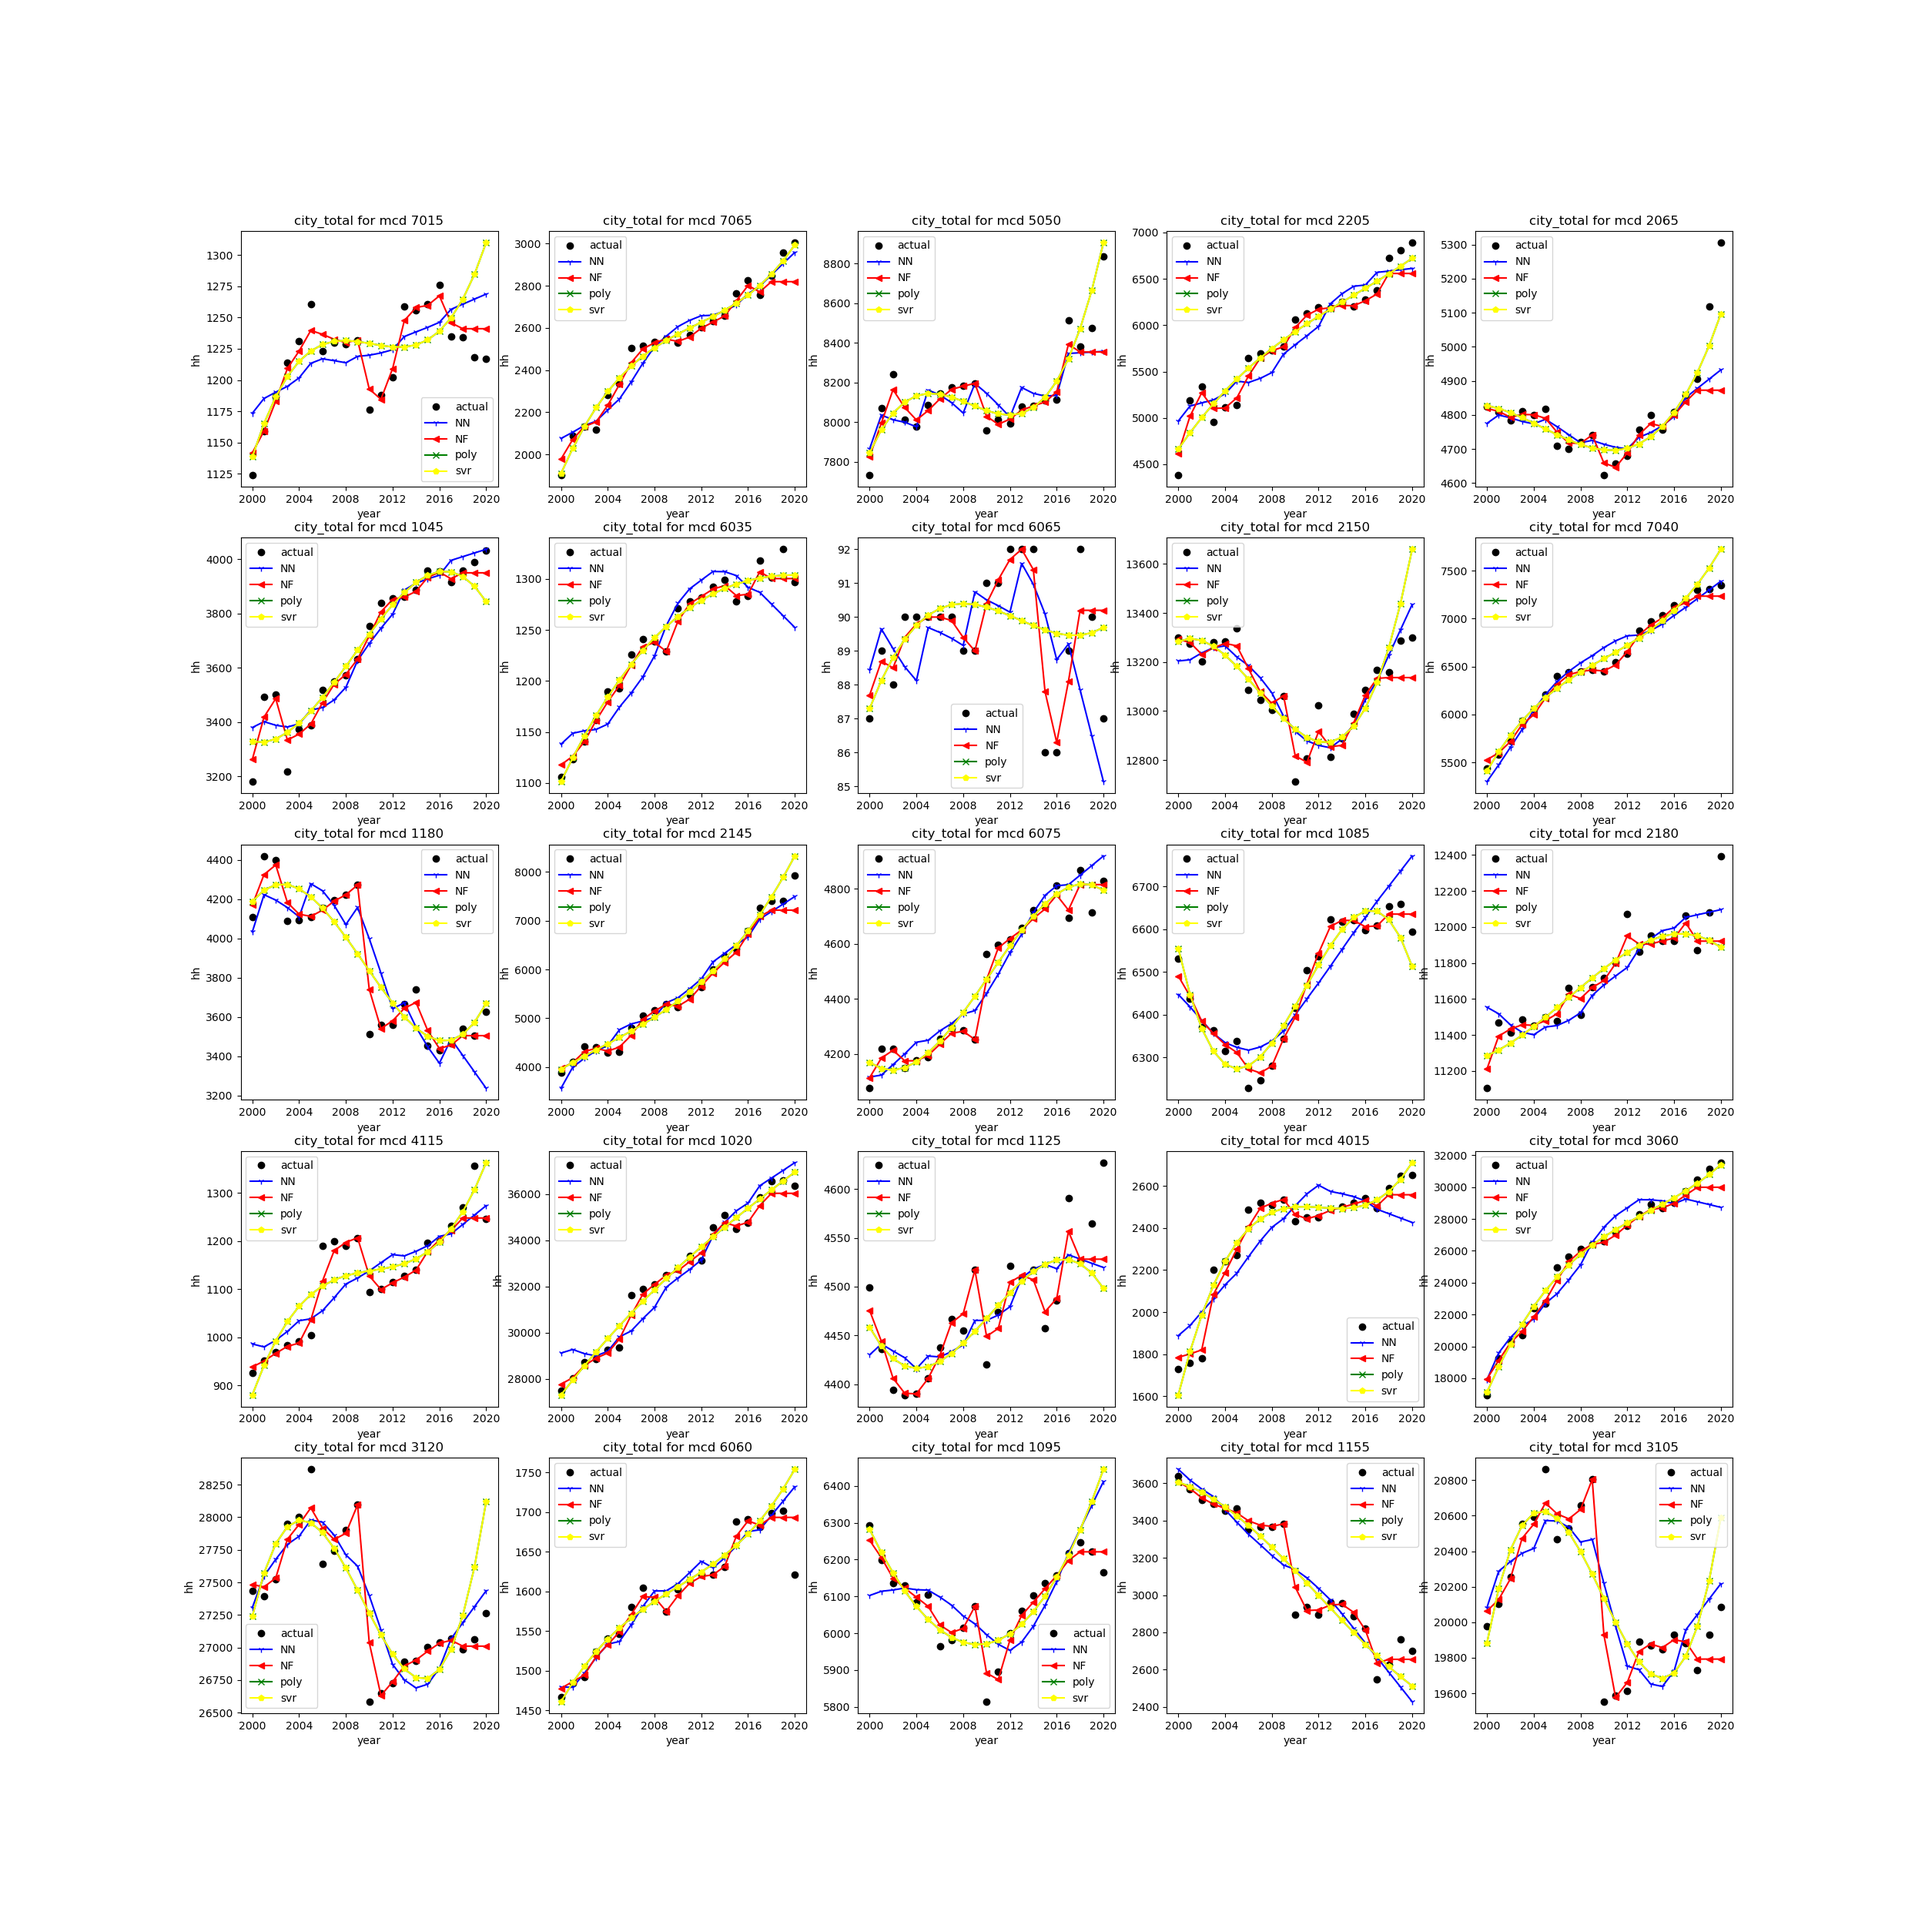
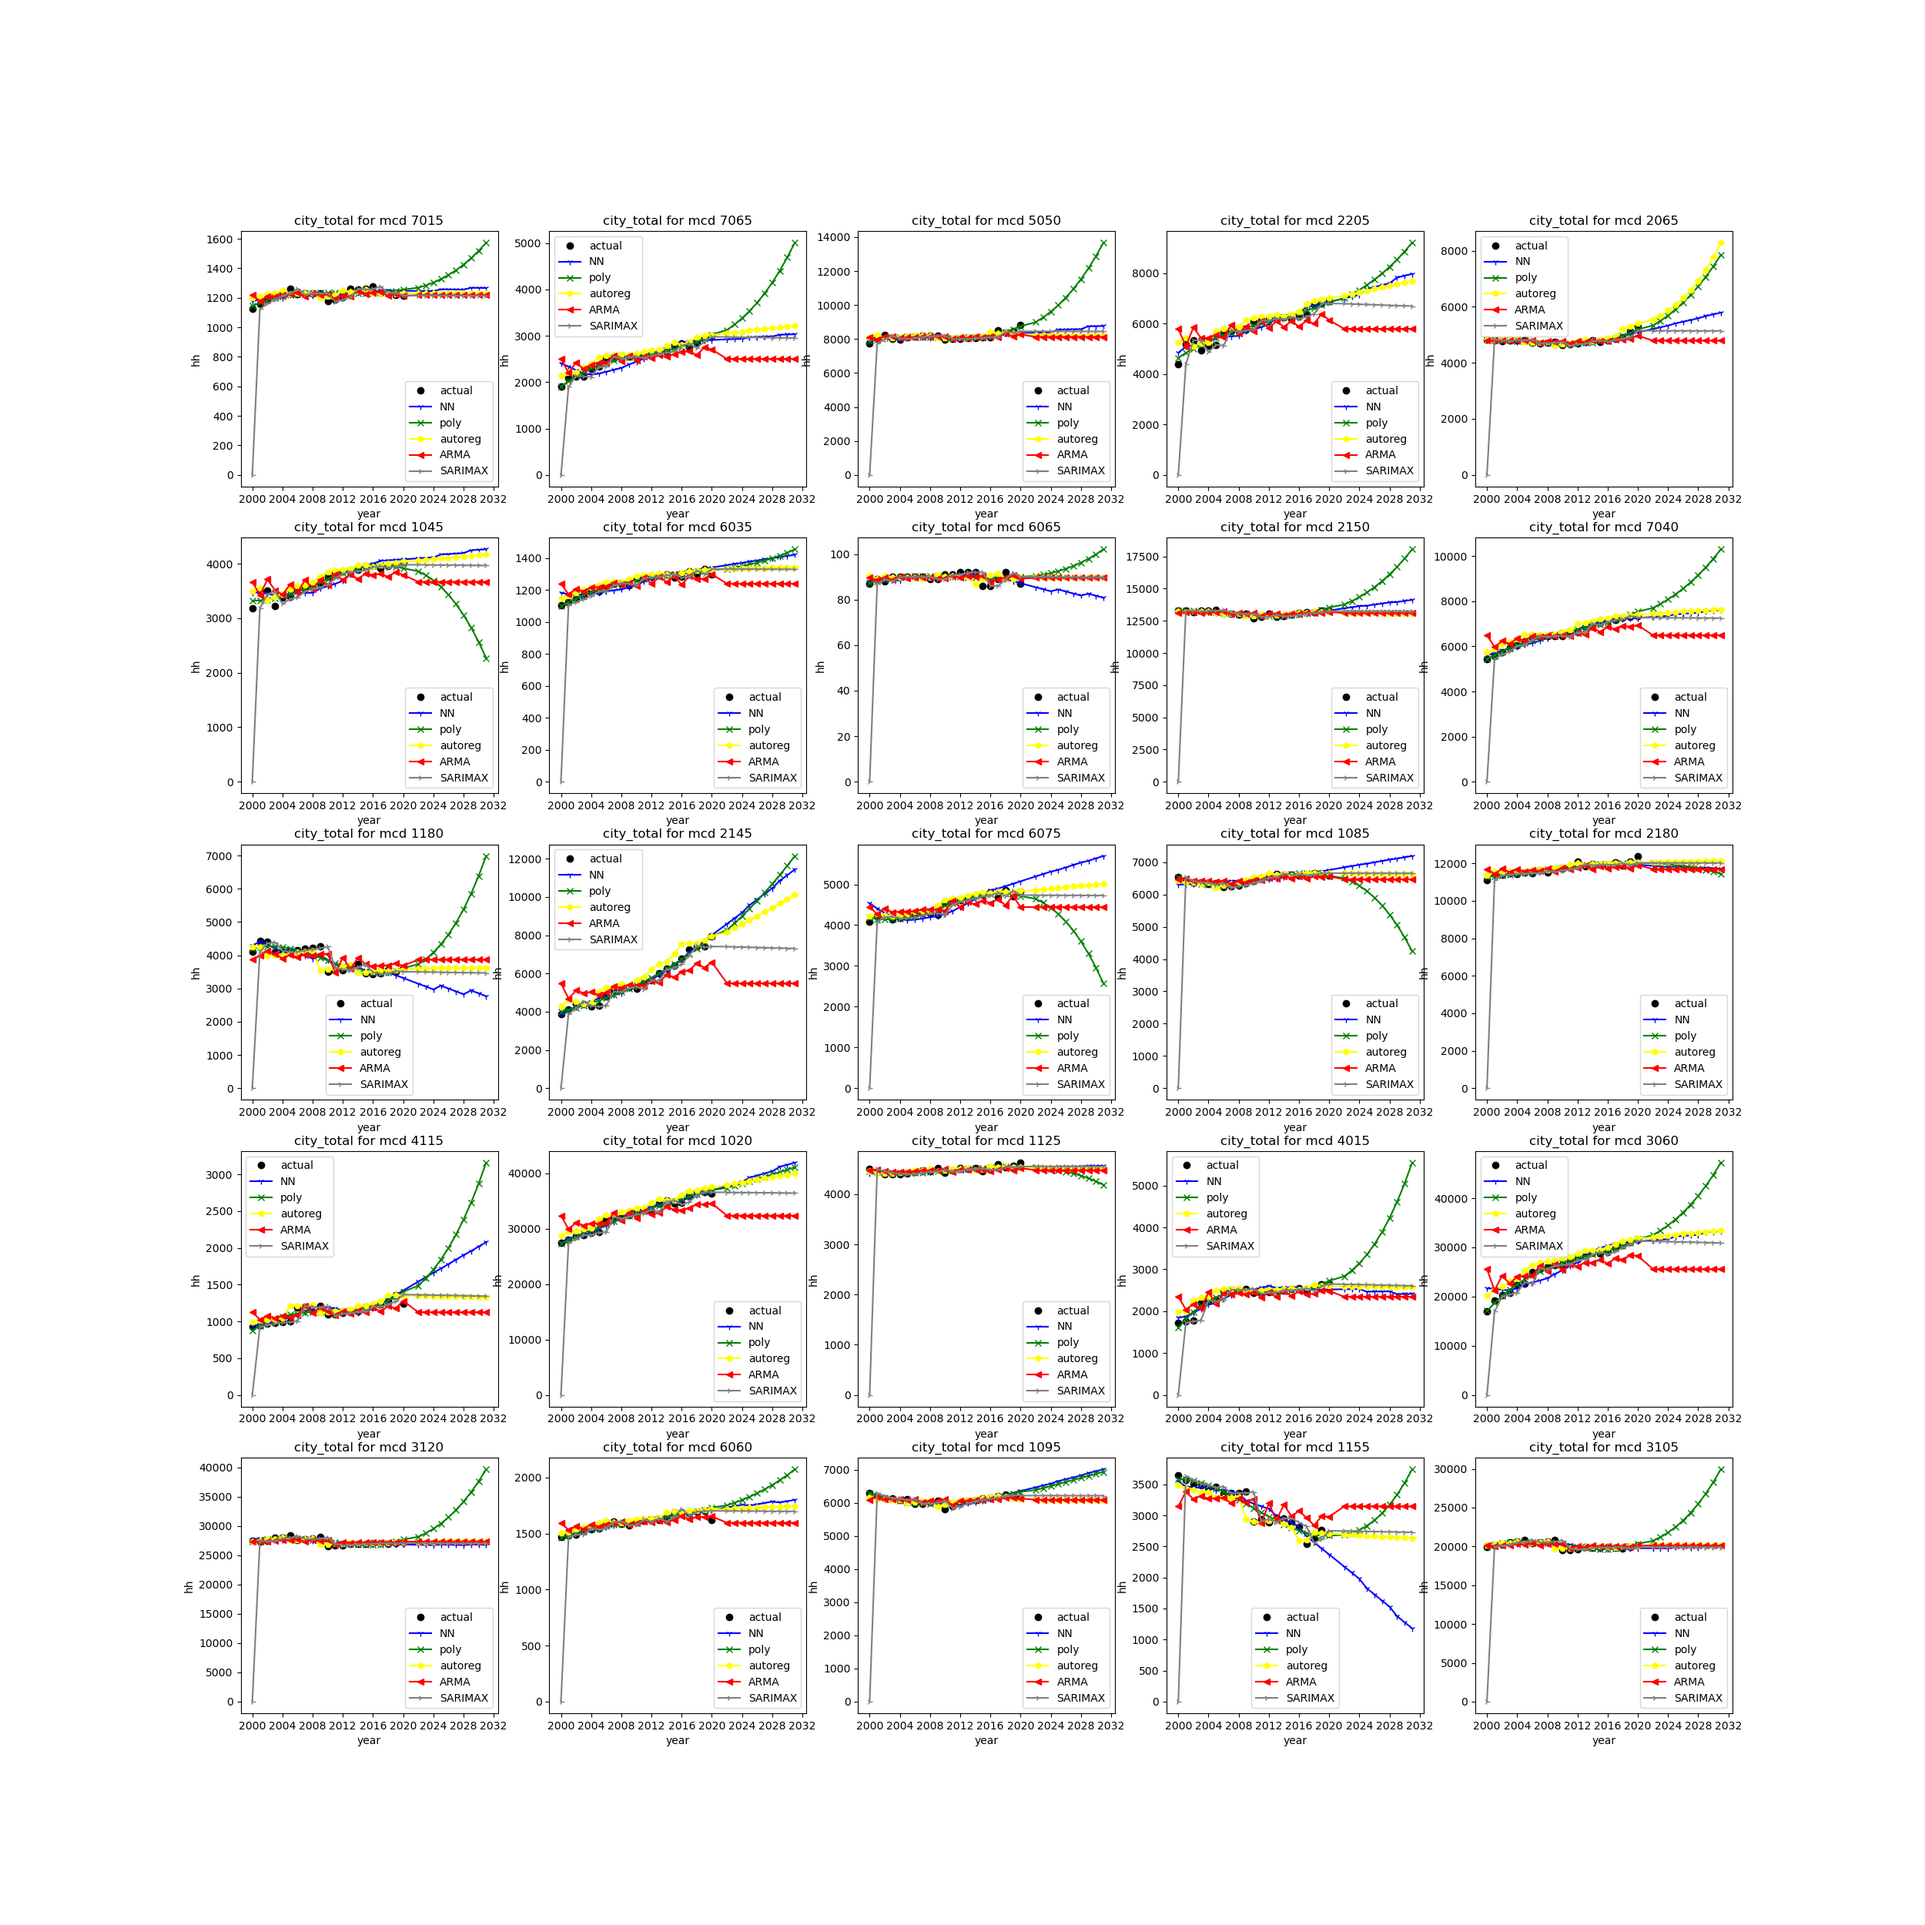
Added time-series statictial models and generated future 10 years prediction

diff --git a/models.py b/models.py
@@ -24,6 +24,10 @@ from sklearn.ensemble import RandomForestRegressor
 from sklearn.svm import SVR
 from sklearn.preprocessing import StandardScaler
 
+from statsmodels.tsa.ar_model import AutoReg
+from statsmodels.tsa.arima_model import ARMA
+from statsmodels.tsa.statespace import sarimax
+
 import matplotlib as mpl
 import matplotlib.pyplot as plt
 import matplotlib.dates as mdates
@@ -100,37 +104,51 @@ def city_total():
         print('running city_total on mcd %s' % mcd)
         h_mcd_local = h_mcd[ h_mcd['semmcd'] == mcd ][['year', 'hh']]
         h_mcd_local = h_mcd_local.rename(columns={'year': 'ds', 'hh': 'y'})
-        df_train, df_test = train_test_split(h_mcd_local, test_size=2, shuffle=False)
+        df_train, df_test = train_test_split(h_mcd_local, test_size=1, shuffle=False)
+        h_mcd_local['ds'] = h_mcd_local.astype(df_train['ds'].dtype)
+        # future prediction
+        future_prediction = pd.Series(
+            pd.date_range("2021-01-01", periods=10, freq="Y")
+        )
         # nn model
-        nn_yhat = city_total_nn(df_train, df_test)
+        nn_yhat = city_total_nn(df_train, df_test, future_prediction)
         # rf model
-        rf_yhat = city_total_rf(df_train, df_test)
+        # rf_yhat = city_total_rf(df_train, df_test, future_prediction)
         # poly model
-        poly_yhat = city_total_poly_reg(df_train, df_test)
-        # poly model
-        svr_yhat = city_total_svr(df_train, df_test)
+        poly_yhat = city_total_poly_reg(df_train, df_test, future_prediction)
+        # svr model
+        # svr_yhat = city_total_svr(df_train, df_test, future_prediction)
+        # auto regression
+        autoreg_yhat = city_total_autoreg(df_train, df_test, future_prediction)
+        # ARMA 
+        arma_yhat = city_total_arma(df_train, df_test, future_prediction)
+        # sarimax 
+        sarimax_yhat = city_total_sarimax(df_train, df_test, future_prediction)
         # validation curve
+        future = pd.DataFrame({'ds': future_prediction})
+        future['y'] = np.nan
+        actual = pd.concat((h_mcd_local, future), ignore_index=True)
         city_model_validation_curve(fig, ind, mcd, 
-                                        h_mcd_local, nn_yhat, rf_yhat, poly_yhat, svr_yhat)
+                                        actual, nn_yhat, arma_yhat, poly_yhat, autoreg_yhat, sarimax_yhat)
         # fig.add_subplot(ax)
-        print(nn_yhat, poly_yhat, rf_yhat)
     fig.savefig('data/plots/city_model_validation_curve_5x5.png')
 
-def city_total_nn(df_train, df_test):
+def city_total_nn(df_train, df_test, future_predict):
     n_test = len(df_test)
     m = neuralprophet.NeuralProphet( trend_reg=2,
                        learning_rate=0.01)
     m.fit(df_train, freq='y', validation_df=df_test)
     # future = m.make_future_dataframe(freq='y', periods=20)
     m = m.highlight_nth_step_ahead_of_each_forecast(1)
-    # future = m.make_future_dataframe( df_test,periods=3)
-    forecast = m.predict(pd.concat(( df_train, df_test)))
+    future = pd.DataFrame({'ds': future_predict}) 
+    future['y'] = np.nan
+    forecast = m.predict(pd.concat(( df_train, df_test, future), ignore_index=True))
     # fig1 = m.plot(forecast)
     # fig1.savefig('data/plots/timeseries.png')
     # return forecast on test data
     return forecast['yhat1'].to_numpy()
 
-def city_total_poly_reg(df_train, df_test):
+def city_total_poly_reg(df_train, df_test, future_predict):
     degree = 8
     X = df_train['ds'].apply(lambda x: x.year).to_numpy()
     X = np.reshape(X, (len(X), -1))
@@ -143,14 +161,16 @@ def city_total_poly_reg(df_train, df_test):
     yhat_test = polyreg.predict(
         df_test['ds'].apply(lambda x: x.year).to_numpy().reshape((len(df_test), -1))
     )
-    return np.concatenate((yhat_train, yhat_test))
+    yhat_future = polyreg.predict(
+        future_predict.apply(lambda x: x.year).to_numpy().reshape((len(future_predict), -1))
+    )
+    return np.concatenate((yhat_train, yhat_test, yhat_future))
 
-def city_total_svr(df_train, df_test):
+def city_total_svr(df_train, df_test, future_predict):
     X = df_train['ds'].apply(lambda x: x.year).to_numpy()
     X = np.reshape(X, (len(X), -1))
     y = df_train['y'].to_numpy()
-    svr_reg=make_pipeline(StandardScaler(), 
-                        SVR(C=1.0, epsilon=0.2))
+    svr_reg=SVR(C=1.0, epsilon=0.1)
     svr_reg.fit(X,y)
     yhat_train = svr_reg.predict(
         df_train['ds'].apply(lambda x: x.year).to_numpy().reshape((len(df_train), -1))
@@ -158,9 +178,42 @@ def city_total_svr(df_train, df_test):
     yhat_test = svr_reg.predict(
         df_test['ds'].apply(lambda x: x.year).to_numpy().reshape((len(df_test), -1))
     )
-    return np.concatenate((yhat_train, yhat_test))
+    yhat_future = svr_reg.predict(
+        future_predict.apply(lambda x: x.year).to_numpy().reshape((len(future_predict), -1))
+    )
+    return np.concatenate((yhat_train, yhat_test, yhat_future))
 
-def city_total_rf(df_train, df_test, previous_model=None):
+def city_total_autoreg(df_train, df_test, future_predict):
+    X = df_train['ds'].apply(lambda x: x.year).to_numpy()
+    X = np.reshape(X, (len(X), -1))
+    y = df_train['y'].to_numpy()
+    autoreg = AutoReg(y, lags=2)
+    autoreg_fit = autoreg.fit()
+    print('Autoreg Coefficients: %s' % autoreg_fit.params)
+    out = autoreg_fit.predict(start=0, end=len(df_train)+len(df_test)+len(future_predict)+1)
+    return out
+
+def city_total_arma(df_train, df_test, future_predict):
+    X = df_train['ds'].apply(lambda x: x.year).to_numpy()
+    X = np.reshape(X, (len(X), -1))
+    y = df_train['y'].to_numpy()
+    arma = ARMA(y, order=(0,1))
+    arma_fit = arma.fit(transparams=True)
+    print('Arma Coefficients: %s' % arma_fit.params)
+    out = arma_fit.predict(start=0, end=len(df_train)+len(df_test)+len(future_predict)-1)
+    return out
+
+def city_total_sarimax(df_train, df_test, future_predict):
+    X = df_train['ds'].apply(lambda x: x.year).to_numpy()
+    X = np.reshape(X, (len(X), -1))
+    y = df_train['y'].to_numpy()
+    sarimax_model = sarimax.SARIMAX(y, order=(1, 0, 1))
+    sarimax_fit = sarimax_model.fit(transparams=True)
+    print('sarimax Coefficients: %s' % sarimax_fit.params)
+    out = sarimax_fit.predict(start=0, end=len(df_train)+len(df_test)+len(future_predict)-1)
+    return out
+
+def city_total_rf(df_train, df_test, future_predict, previous_model=None):
     if not previous_model:
         rf = RandomForestRegressor(
             n_estimators=10, # default 100
@@ -182,9 +235,12 @@ def city_total_rf(df_train, df_test, previous_model=None):
     yhat_test = rf.predict(
         df_test['ds'].apply(lambda x: x.year).to_numpy().reshape((len(df_test), -1))
     )
-    return np.concatenate((yhat_train, yhat_test))
+    yhat_future = rf.predict(
+        future_predict.apply(lambda x: x.year).to_numpy().reshape((len(future_predict), -1))
+    )
+    return np.concatenate((yhat_train, yhat_test, yhat_future))
 
-def city_model_validation_curve(fig, fig_ind, mcd, actual, nn, nf, poly, svr):
+def city_model_validation_curve(fig, fig_ind, mcd, actual, nn, arma, poly, autoreg, sarimax):
     # fig, ax = plt.subplots(figsize=(5, 5))
     # remove the axes placeholder
     # fig.delaxes(fig.axes[fig_ind])
@@ -194,9 +250,10 @@ def city_model_validation_curve(fig, fig_ind, mcd, actual, nn, nf, poly, svr):
     X = actual['ds'].apply(lambda x: pd.to_datetime(x))
     ax.plot(X, actual['y'], 'o', color='black', label='actual')  # Plot some data on the (implicit) axes.
     ax.plot(X, nn, '1-', color='blue', label='NN')  
-    ax.plot(X, nf, '<-', color='red', label='NF')  
     ax.plot(X, poly, 'x-', color='green', label='poly')  
-    ax.plot(X, poly, 'p-', color='yellow', label='svr')  
+    ax.plot(X, autoreg, 'p-', color='yellow', label='autoreg')  
+    ax.plot(X, arma, '<-', color='red', label='ARMA')  
+    ax.plot(X, sarimax, '4-', color='grey', label='SARIMAX')  
     ax.set_xlabel('year')
     ax.set_ylabel('hh')
     ax.set_title("city_total for mcd %s" % mcd)
